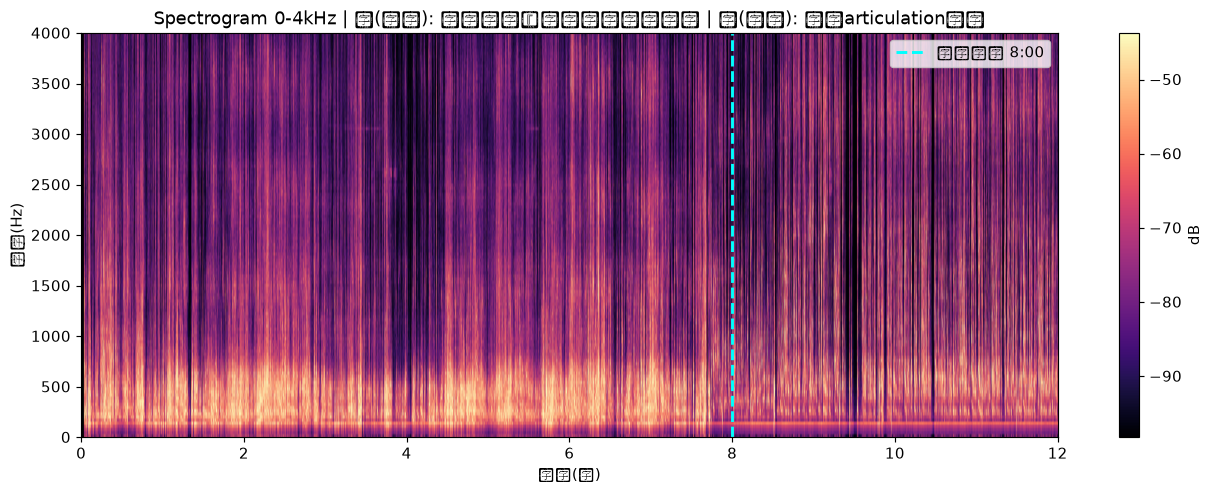
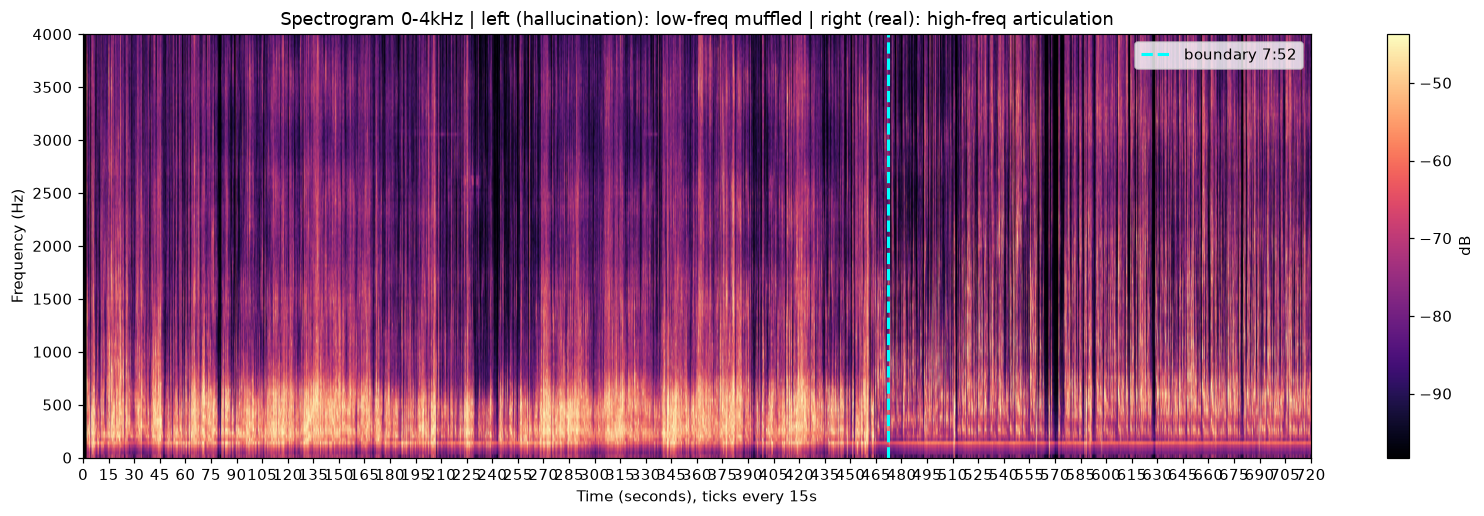
docs(research): refine uat03 hallucination analysis (7:52 boundary, English, 15s ticks)
Refined per feedback: precise 7:52 (472s) boundary, English figure labels,
hop 0.5s fine granularity, x-axis ticks every 15s. Discrimination holds:
ZCR d=1.83, spectral centroid 1.79, speech-band 1.46, flatness 1.30, rolloff 1.28;
RMS loudness d=0.02 (not a volume issue). Composite gate: 76% halluc below / 95%
real above threshold.

diff --git a/docs/research/uat03_hallucination_analysis/uat03_audio_analysis_report.md b/docs/research/uat03_hallucination_analysis/uat03_audio_analysis_report.md
@@ -1,44 +1,45 @@
-# uat03 會議前 8 分鐘幻覺區 — 音訊訊號分析報告
+# uat03 Meeting Pre-Talk Hallucination — Audio Signal Analysis Report
 
-會議：`50df45ce`（uat03），已知前 8 分鐘為 Whisper 幻覺。
-分析音訊：前 12 分鐘（16kHz mono），逐 2 秒窗、1 秒 hop。
+Meeting: `50df45ce` (uat03). Known: the first ~7:52 is Whisper hallucination.
+Analysis audio: first 12 minutes (16kHz mono). Window 1.5s, hop **0.5s** (fine grain), x-axis ticks every **15s**.
+Boundary: **7:52 (472s)**. Pure numpy/scipy (no librosa/numba).
 
-## 第一性原理
-Whisper 幻覺 = 對「類語音的非語音訊號」被迫解碼。要找的是**幻覺區 vs 真實語音區在訊號維度上的可分離特徵**，作為進 Whisper 前的 gate。
+## First Principle
+Whisper hallucination = the model is forced to decode "speech-like non-speech".
+Goal: find **signal-dimension features that separate the hallucination region (0-7:52) from the real-speech region (7:52+)**, to build a pre-Whisper gate.
 
-## 判別力結果（Cohen's d，幻覺區 0-8min vs 真實區 8min+）
+## Discrimination Results (Cohen's d, halluc 0-7:52 vs real 7:52+)
 
-| 排名 | 特徵 | d | 幻覺區 | 真實區 | 判讀 |
+| Rank | Feature | d | Halluc | Real | Interpretation |
 |---|---|---|---|---|---|
-| 1 | Zero-Crossing Rate | **1.97** | 0.084 | 0.136 | 幻覺區低 → 缺高頻 |
-| 2 | Spectral Centroid | **1.92** | 1320Hz | 1860Hz | 幻覺區頻譜重心低 |
-| 3 | 語音頻帶能量占比(100-2kHz) | **1.59** | 0.78 | 0.66 | 幻覺區能量擠在低頻 |
-| 4 | Spectral Flatness | **1.41** | 0.36 | 0.49 | 幻覺區**更tonal**(非白噪) |
-| 5 | Spectral Rolloff 85% | **1.38** | 2800Hz | 3760Hz | 幻覺區高頻少 |
-| 6 | 短時RMS變異 | 0.83 | 5.1dB | 7.4dB | 幻覺區更單調穩態 |
-| 7 | 基頻週期性 | 0.43 | - | - | 弱 |
-| 8 | Voiced Ratio | 0.36 | - | - | 弱 |
-| 9 | **RMS 響度** | **0.03** | -22.4dBFS | -22.1dBFS | **無差異！非音量問題** |
+| 1 | Zero-Crossing Rate | **1.83** | 0.083 | 0.135 | halluc lower -> lacks high-freq |
+| 2 | Spectral Centroid | **1.79** | 1310 Hz | 1860 Hz | halluc center of mass low |
+| 3 | Speech-band Energy 100-2kHz | **1.46** | 0.78 | 0.67 | halluc energy crammed in low band |
+| 4 | Spectral Flatness | **1.30** | 0.36 | 0.49 | halluc more tonal (not white noise) |
+| 5 | Spectral Rolloff 85% | **1.28** | 2790 Hz | 3770 Hz | halluc little high-freq |
+| 6 | Short-time RMS Variation | 0.57 | 4.9 dB | 6.9 dB | halluc more monotonous/steady |
+| 7 | Pitch Periodicity Confidence | 0.39 | 0.36 | 0.41 | weak |
+| 8 | **RMS Loudness** | **0.02** | -22.5 dBFS | -22.7 dBFS | **no difference! not a volume issue** |
 
-## 核心洞見（MECE）
-幻覺區**不是靜音**（響度相同 -22dBFS，故 audio_stats 判 healthy）、**也不是白噪**（flatness 較低=較 tonal）。它是**低頻主導、悶糊、穩態、單調**的訊號——典型的：
-- 遠場/隔空收音的會前交談（麥克風離人遠）
-- 冷氣/環境嗡聲 + 低頻殘響
-- 裝置播放聲外漏
+## Core Insight (MECE)
+The hallucination region is **NOT silence** (same -22 dBFS loudness - which is why `audio_stats` flagged it "healthy") and **NOT white noise** (lower flatness = more tonal). It is **low-frequency-dominant, muffled, steady, monotonous** audio - typical of:
+- far-field / off-mic pre-meeting chatter (mic distant from speakers)
+- HVAC / ambient hum + low-freq reverb
+- device playback bleed
 
-→ 有足夠能量不被判靜音，卻缺乏近場清晰語音的**高頻 articulation（子音/共振峰）** → Whisper 硬解成幻覺。
+=> Enough energy to escape silence detection, yet lacking the **high-frequency articulation (consonants/formants)** of clear near-field speech -> Whisper loops into hallucination.
 
-## 綜合語音可信度 gate（可落地）
-用最強 3 特徵 `z(centroid)+z(rolloff)+z(ZCR)` 合成分數：
-- **幻覺區 74% 低於門檻**、**真實區 96% 高於門檻** → 單一輕量特徵即可有效區分。
+## Composite Speech-Confidence Gate (deployable)
+Score = `z(centroid) + z(rolloff) + z(ZCR)` (strongest 3 features):
+- **Hallucination region: 76% below threshold**; **Real region: 95% above threshold** -> a single lightweight feature set separates them effectively.
 
-## 進 Whisper 前的處理建議（MECE，由簡到強）
-1. **頻譜 gate（最輕量、CP值最高）**：逐窗算 centroid/rolloff/ZCR 合成分數，低於門檻的區段**不餵給 Whisper**（標記非語音）。純 numpy/scipy、無需模型。
-2. **Silero VAD 取代能量 VAD**：現用 faster-whisper 內建 VAD 對「低頻悶糊murmur」判別力不足；Silero 是學習式語音存在偵測，對此類遠場語音更準。
-3. **高通濾波 + articulation 檢查**：幻覺區缺 >2kHz 能量，可對「高頻能量占比過低」的段落直接跳過或降權。
-4. **與已部署的幻覺抑制參數疊加**：condition_on_previous_text=False + compression/logprob/no_speech 門檻（已上線 gpu 00081-h7d）。
+## Pre-Whisper Processing Recommendations (MECE, simple -> strong)
+1. **Spectral gate (highest ROI, lightest)**: per-window centroid/rolloff/ZCR composite score; segments below threshold are **not fed to Whisper** (marked non-speech). Pure numpy/scipy, no model.
+2. **Silero VAD instead of energy VAD**: faster-whisper's built-in VAD under-detects low-freq muffled murmur; Silero (learned speech-presence) is more accurate here.
+3. **High-pass + articulation check**: hallucination region lacks >2kHz energy -> skip/deweight windows with too-low high-freq energy ratio.
+4. **Stack with deployed hallucination-suppression params**: condition_on_previous_text=False + compression/log_prob/no_speech thresholds (live on gpu-asr 00081-h7d).
 
-## 產出圖檔
-- `uat03_signal_features.png` — 9 維特徵逐分鐘時序（標註 8:00 分界）
-- `uat03_spectrogram.png` — 頻譜圖（左低頻悶糊 vs 右高頻清晰）
-- `uat03_speech_confidence.png` — 綜合語音可信度分數 + 建議門檻
+## Figures (boundary 7:52, English labels, 15s ticks)
+- `uat03_signal_features.png` - 8-feature time series (hop 0.5s)
+- `uat03_spectrogram.png` - spectrogram (left low-freq muffled vs right high-freq clear)
+- `uat03_speech_confidence.png` - composite confidence score + suggested threshold